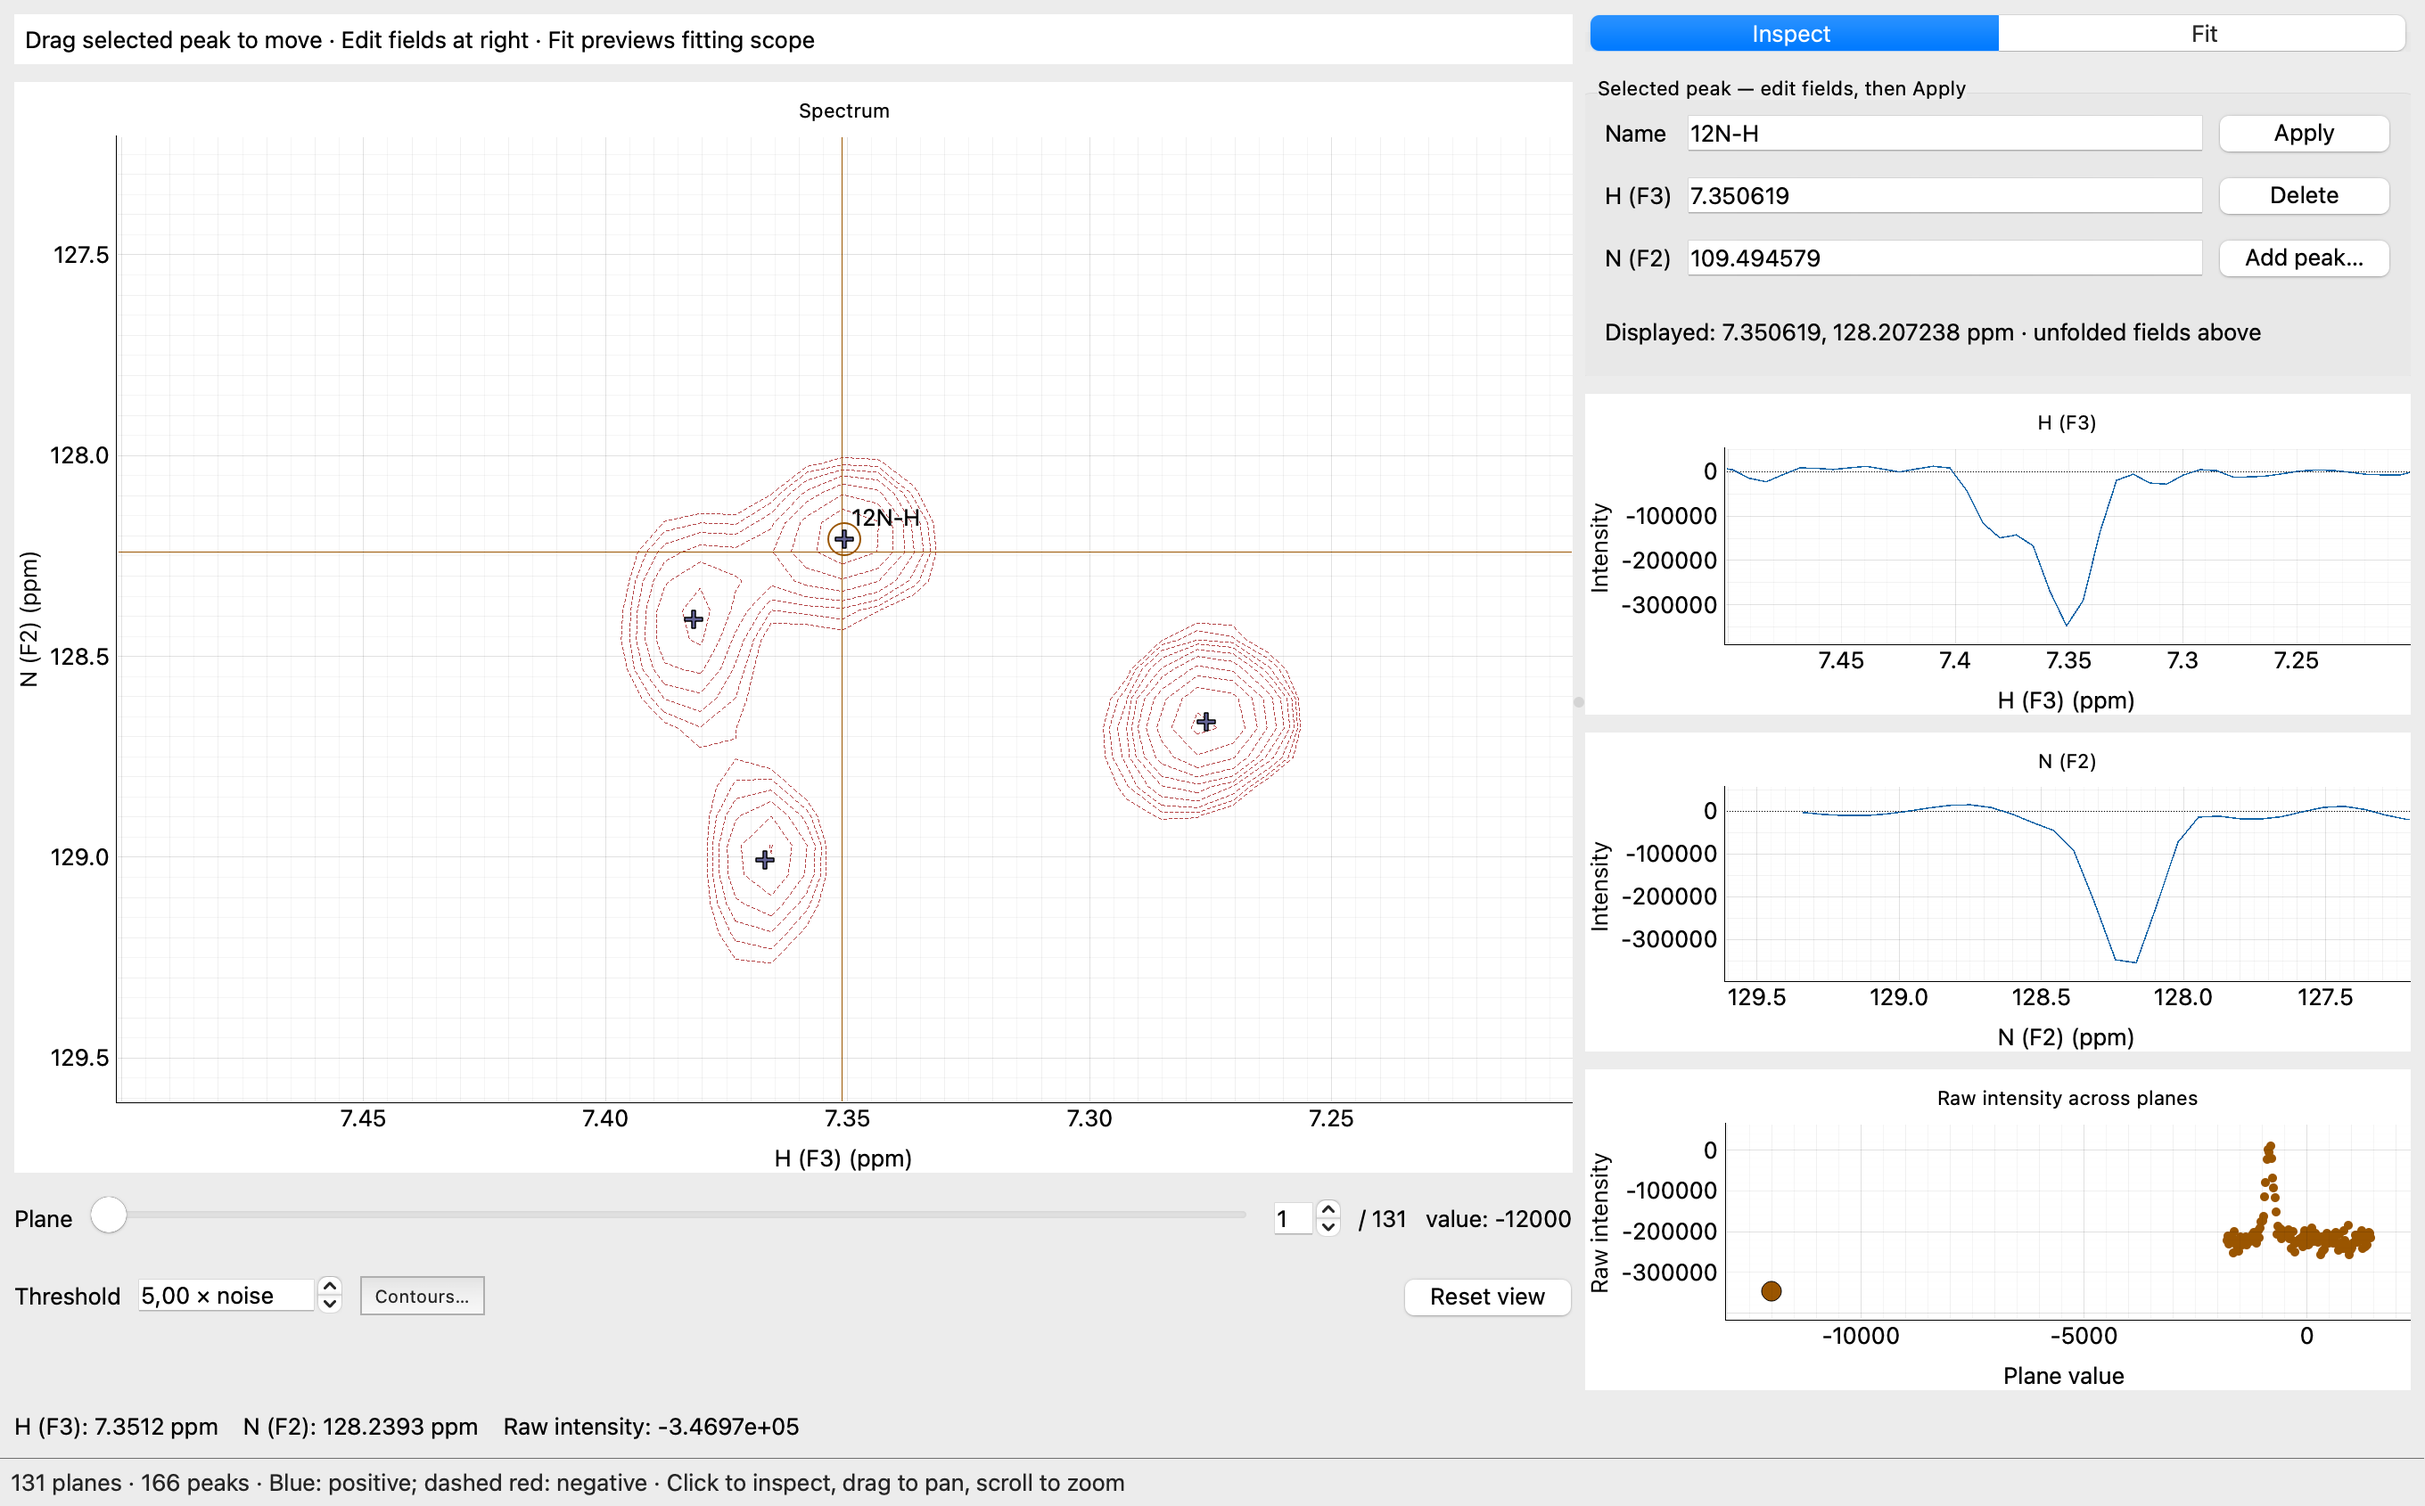
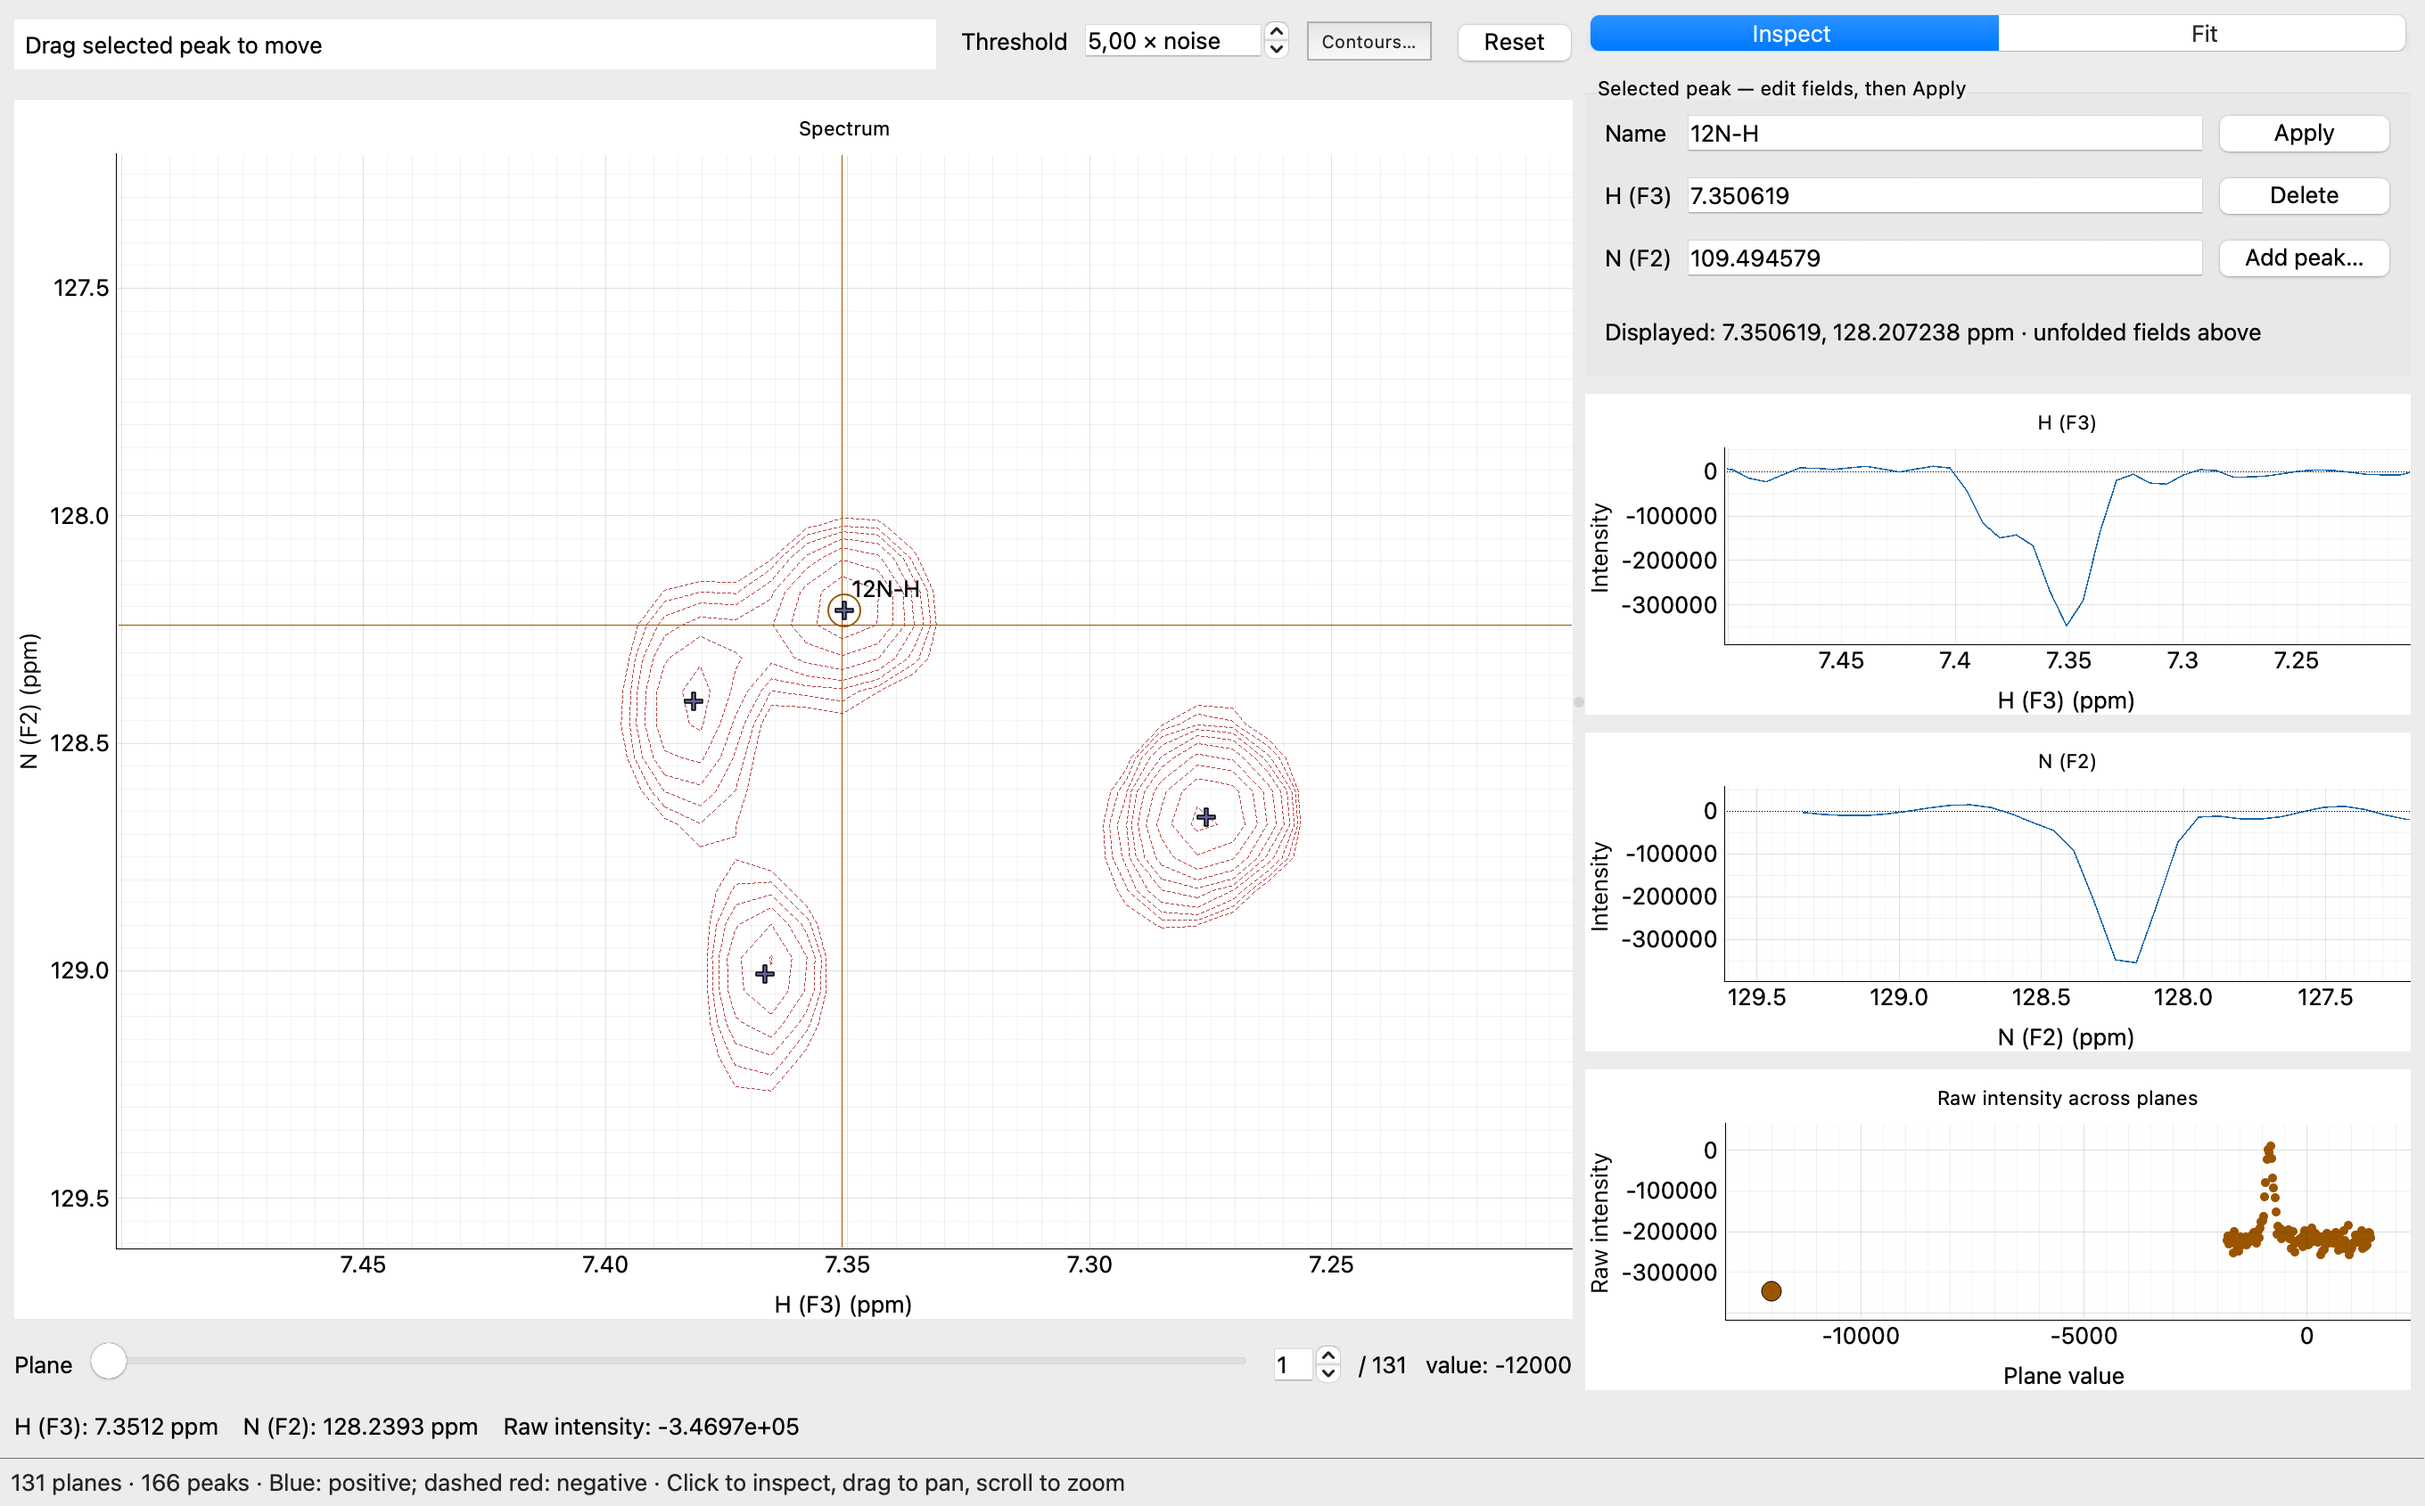
Move contour controls into the spectrum header

diff --git a/src/peakfit/gui/viewer.py b/src/peakfit/gui/viewer.py
@@ -222,7 +222,15 @@ class SpectrumViewer(QtWidgets.QWidget):
             QtWidgets.QSizePolicy.Policy.Ignored, QtWidgets.QSizePolicy.Policy.Fixed
         )
         self.interaction_hint.setAutoFillBackground(True)
-        left_layout.addWidget(self.interaction_hint)
+        header = QtWidgets.QHBoxLayout()
+        self.spectrum_status = QtWidgets.QStackedWidget()
+        self.spectrum_status.setFixedHeight(self.interaction_hint.height())
+        self.spectrum_status.setSizePolicy(
+            QtWidgets.QSizePolicy.Policy.Ignored, QtWidgets.QSizePolicy.Policy.Fixed
+        )
+        self.spectrum_status.addWidget(self.interaction_hint)
+        header.addWidget(self.spectrum_status, 1)
+        left_layout.addLayout(header)
         left_layout.addWidget(self.spectrum_plot, 1)
         self.cross_x = pg.InfiniteLine(angle=90, movable=True, pen=pg.mkPen("#a65e00"))
         self.cross_y = pg.InfiniteLine(angle=0, movable=True, pen=pg.mkPen("#a65e00"))
@@ -246,7 +254,7 @@ class SpectrumViewer(QtWidgets.QWidget):
         self.spectrum_plot.addItem(self.selection_marker)
         self._build_fit_overlay()
         self._build_plane_controls(left_layout)
-        self._build_contour_controls(left_layout)
+        self._build_contour_controls(header)
         splitter.addWidget(left)
 
         right = self._build_workspaces()
@@ -400,7 +408,7 @@ class SpectrumViewer(QtWidgets.QWidget):
         with QtCore.QSignalBlocker(self.workspace_tabs):
             self.workspace_tabs.setCurrentIndex(1)
         self.workspaces.setCurrentIndex(1)
-        self.interaction_hint.setText("Amber cells: exact fitting samples · Rings: group members")
+        self._update_interaction_hint()
 
     def _schedule_fit_preview(self) -> None:
         """Debounce threshold drags; an outdated region is not a reviewed input."""
@@ -634,7 +642,7 @@ class SpectrumViewer(QtWidgets.QWidget):
         row.addWidget(self.plane_label)
         layout.addLayout(row)
 
-    def _build_contour_controls(self, layout: QtWidgets.QVBoxLayout) -> None:  # noqa: PLR0915
+    def _build_contour_controls(self, layout: QtWidgets.QHBoxLayout) -> None:  # noqa: PLR0915
         self.contour_button = QtWidgets.QToolButton()
         self.contour_button.setText("Contours…")
         self.contour_popup = QtWidgets.QDialog(self, QtCore.Qt.WindowType.Popup)
@@ -698,7 +706,8 @@ class SpectrumViewer(QtWidgets.QWidget):
                 grid.addWidget(control, row, 2)
         grid.setColumnStretch(1, 1)
         self._sync_contour_sliders()
-        reset = QtWidgets.QPushButton("Reset view")
+        reset = QtWidgets.QPushButton("Reset")
+        reset.setToolTip("Reset the spectrum to its full extent")
         reset.clicked.connect(self.reset_view)
         controls = QtWidgets.QHBoxLayout()
         label = QtWidgets.QLabel("&Threshold")
@@ -706,7 +715,6 @@ class SpectrumViewer(QtWidgets.QWidget):
         controls.addWidget(label)
         controls.addWidget(self.threshold)
         controls.addWidget(self.contour_button)
-        controls.addStretch()
         controls.addWidget(reset)
         layout.addLayout(controls)
         self.contour_status = QtWidgets.QLabel()
@@ -714,7 +722,7 @@ class SpectrumViewer(QtWidgets.QWidget):
         self.contour_status.setSizePolicy(
             QtWidgets.QSizePolicy.Policy.Ignored, QtWidgets.QSizePolicy.Policy.Fixed
         )
-        layout.addWidget(self.contour_status)
+        self.spectrum_status.addWidget(self.contour_status)
 
     def _show_contour_controls(self) -> None:
         """Anchor transient controls without changing the spectrum layout."""
@@ -778,6 +786,7 @@ class SpectrumViewer(QtWidgets.QWidget):
         self._contour_revision += 1
         self._computation.cancel("contours")
         self.contour_status.setText("Updating contours…")
+        self.spectrum_status.setCurrentIndex(1)
         self.contour_status.setToolTip(
             "Previous contours remain visible until the new set is ready."
         )
@@ -827,6 +836,7 @@ class SpectrumViewer(QtWidgets.QWidget):
                 )
                 item.setPath(paths[index])
         self.contour_status.clear()
+        self.spectrum_status.setCurrentIndex(0)
         self.contour_status.setToolTip("")
 
     @QtCore.Slot(str, int, object)
@@ -842,6 +852,7 @@ class SpectrumViewer(QtWidgets.QWidget):
                 self._apply_fit_preparation(cast("PreparedLocalFit", outcome))
         elif kind == "contours" and revision == self._contour_revision:
             if isinstance(outcome, Exception):
+                self.spectrum_status.setCurrentIndex(1)
                 self.contour_status.setText("Contour update failed · hover for details")
                 self.contour_status.setToolTip(str(outcome))
             else:
@@ -1121,7 +1132,8 @@ class SpectrumViewer(QtWidgets.QWidget):
             text = "Drag selected peak to move · Edit fields at right · Fit previews fitting scope"
         else:
             text = "Click a peak to select · Drag background to pan · Scroll to zoom"
-        self.interaction_hint.setText(text)
+        self.interaction_hint.setText(text.split(" · ", 1)[0])
+        self.interaction_hint.setToolTip(text)
         self.interaction_hint.setBackgroundRole(
             QtGui.QPalette.ColorRole.Highlight
             if self.adding_peak

diff --git a/tests/test_gui_fitting.py b/tests/test_gui_fitting.py
@@ -130,6 +130,9 @@ def test_all_plane_region_identity_aliasing_and_read_only_preview(monkeypatch) -
 
     positions = plot_positions()
     spectrum_geometry = viewer.spectrum_plot.geometry()
+    assert viewer.threshold.mapTo(viewer, QtCore.QPoint()).y() < (
+        viewer.spectrum_plot.mapTo(viewer, QtCore.QPoint()).y()
+    )
     # Contour controls are transient, precise and keyboard accessible; opening them
     # never reflows either the spectrum or inspection plots.
     QtTest.QTest.mouseClick(viewer.contour_button, QtCore.Qt.MouseButton.LeftButton)

diff --git a/docs/gui.md b/docs/gui.md
@@ -20,7 +20,7 @@ is also available.
 
 ## Navigation
 
-- Drag the spectrum to pan; scroll to zoom about the pointer. **Reset view** or
+- Drag the spectrum to pan; scroll to zoom about the pointer. **Reset** or
   **Ctrl+0** restores the full spectral range.
 - Click to place the crosshair, or drag either crosshair line. It snaps to sampled
   points so the two orthogonal traces and raw plane profile inspect the same data.
@@ -102,8 +102,11 @@ are newly allocated on import; they are not scientific parameter identifiers.
 
 ## Compact contour controls
 
-Plane navigation and the precise numerical **Threshold** remain visible below the
-spectrum. **Contours…** opens an anchored popup containing the logarithmic threshold
+Plane navigation remains below the spectrum. The precise numerical **Threshold**,
+**Contours…**, and **Reset** share the spectrum header, freeing the space beneath
+the 2D plot. The header shows a short interaction hint; hover for the complete
+instruction. Contour-update status temporarily uses that same space.
+**Contours…** opens an anchored popup containing the logarithmic threshold
 slider, spacing slider/value, and level-count slider/value. Arrow keys adjust the
 focused slider; Tab moves between controls; Escape or clicking outside closes the
 popup. Changes update the display immediately through the existing debounced worker.

diff --git a/docs/development.md b/docs/development.md
@@ -279,3 +279,11 @@ suite: 233 passed. The native scenarios include real subprocess cancellation,
 stale delivery, unsaved-result guards, manual editing/history/export, and the
 complete dense low-threshold contours. Ruff, formatting, strict ty and import-linter
 pass. No new test functions or dependencies were added.
+
+The follow-up header placement moves Threshold, Contours and Reset above the 2D
+plot, using the existing hint row. Contour progress shares that row; full hints
+remain available on hover. Only plane navigation remains below the spectrum.
+At 1000 × 720 content size the 2D plot height increased from 487 to 559 pixels,
+while the three inspection plots kept their original positions and sizes. Native
+light/dark captures were refreshed; the existing preparation scenario also checks
+that the threshold is above the spectrum.
